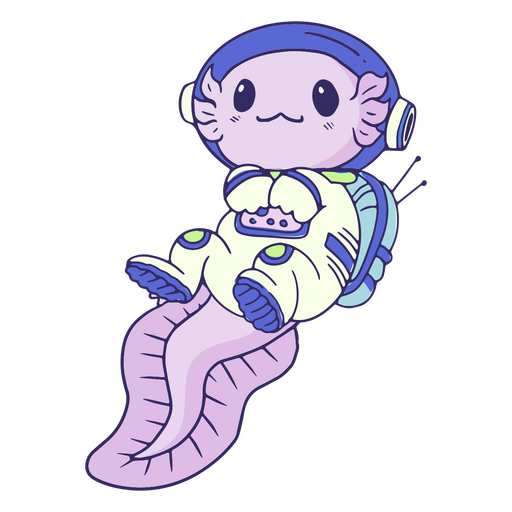
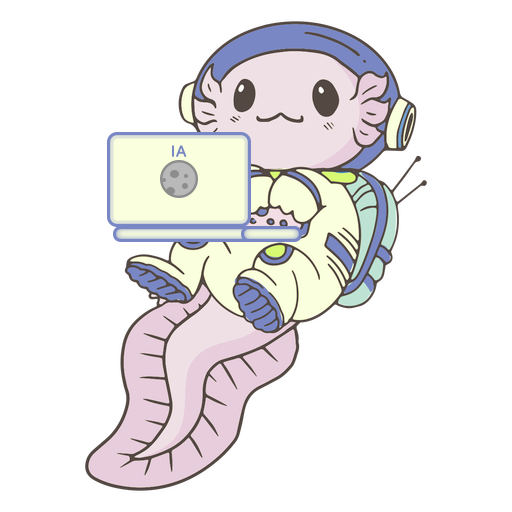
se mejoraron los estilos, se mejoro el direccionamiento de los recursos, se le agrego animation y nuevo diseño a ajolote

diff --git a/src/components/Project.js b/src/components/Project.js
@@ -17,10 +17,10 @@ const Project = ({item}) => {
         {item.name}
       </h3>
       <div className='flex flex-row text-white'>
-        <a className='cursor-pointer capitalize m-4 bg-accent hover:bg-accent-hover transition-all rounded-lg p-5 hover:animate-pulse' href={item.git} >
+        <a className='cursor-pointer capitalize m-4 bg-accent hover:bg-accent-hover transition-all rounded-lg p-5 hover:animate-pulse' href={item.git} target="_blank"  >
             <ImEmbed2 className='text-xl'/>
         </a>
-        <a className='cursor-pointer capitalize m-4 bg-accent hover:bg-accent-hover transition-all rounded-lg p-5 hover:animate-pulse' href={item.link}>
+        <a className='cursor-pointer capitalize m-4 bg-accent hover:bg-accent-hover transition-all rounded-lg p-5 hover:animate-pulse' href={item.link} target="_blank" >
           <ImSphere className='text-xl'/>
         </a>
       </div>

diff --git a/src/components/Resumen.js b/src/components/Resumen.js
@@ -43,7 +43,7 @@ const Resumen = () => {
                                         <div className='mb-2' key={index}>
                                             <h2 className='font-bold pb-1'>{item.name}</h2>
                                             <span className='bg-secondary text-white mb-2'>{item.date}</span>
-                                            <a href={item.link} className='ml-4 pl-2 pr-2 bg-accent hover:bg-accent-hover hover:animate-pulse text-white rounded-lg'>Link</a>
+                                            <a href={item.link} target="_blank" className='ml-4 pl-2 pr-2 bg-accent hover:bg-accent-hover hover:animate-pulse text-white rounded-lg'>Link</a>
                                         </div>
                                     )
                                 })}

diff --git a/src/components/Nav.js b/src/components/Nav.js
@@ -12,10 +12,10 @@ const Nav = () => {
       <ul className='flex space-x-8 capitalize text-[15px]'>
         {navigation.map((item, index) => {
           return (
-            <li className='text-white hover:text-accent cursor-pointer' key={index}>
+            <li className='text-white hover:text-accent cursor-pointer ' key={index}>
               <Link 
                 to={item.href} 
-                activeClass='active' 
+                activeClass='active underline underline-offset-4 decoration-solid' 
                 spy={true} 
                 smooth={true} 
                 duration={500} 

diff --git a/src/components/Footer.js b/src/components/Footer.js
@@ -14,7 +14,7 @@ const Footer = () => {
                 <div className='flex space-x-6 items-center justify-center'>
                     {social.map((item, index) => {
                         return(
-                            <a className='text-accent text-4xl' href={item.href} key={index}>
+                            <a className='text-accent text-4xl' href={item.href} key={index} target="_blank">
                                 {item.icon}
                             </a>
                         );                            

diff --git a/public/index.html b/public/index.html
@@ -31,7 +31,7 @@
       href="https://fonts.googleapis.com/css2?family=Playfair+Display:ital,wght@0,400;0,500;0,600;0,700;0,800;0,900;1,400;1,500;1,600;1,700;1,800;1,900&family=Work+Sans:ital,wght@0,100;0,200;0,300;0,400;0,500;0,600;0,700;0,800;1,100;1,200;1,300;1,400;1,500;1,600;1,700;1,800;1,900&display=swap"
       rel="stylesheet"
     />
-    <title>Portafolio IA</title>
+    <title>Alberto Ivan Inclan</title>
   </head>
   <body>
     <noscript>You need to enable JavaScript to run this app.</noscript>

diff --git a/src/components/Socials.js b/src/components/Socials.js
@@ -8,7 +8,7 @@ const Socials = () => {
     <ul className='flex space-x-6'>
       {social.map((item, index) => {
         return <li className='flex justify-center items-center text-accent' key={index}>
-          <a className='text-xl' href={item.href}>
+          <a className='text-xl' href={item.href} target="_blank" >
             {item.icon}
           </a>
         </li>

diff --git a/src/components/Hero.js b/src/components/Hero.js
@@ -38,7 +38,7 @@ const Hero = () => {
             </div>
             {/* right side */}
             <div className='hidden lg:flex flex-1 justify-center items-center h-4/5'>
-              <img src={ajolote} alt='' className='h-4/5'/>
+              <img src={ajolote} alt='' className='h-4/5 shake'/>
             </div>
           </div>
         </div>

diff --git a/src/index.css b/src/index.css
@@ -41,4 +41,12 @@
   .active {
     @apply text-accent;
   }
+  .shake {
+    animation: shake 10s ease infinite;
+  }
+  @keyframes shake {
+    0%, 100% {transform: translateX(0);}
+    10%, 30%, 50%, 70%, 90% {transform: translateX(-10px);}
+    20%, 40%, 60%, 80% {transform: translateX(10px);}
+  }
 }

diff --git a/src/data.js b/src/data.js
@@ -1,5 +1,5 @@
 // Documentos
-import PDF from '../src/document/cv.pdf';
+import PDF from '../src/document/CV.pdf';
 import Bigdata from '../src/document/BigData.pdf';
 import IntroBBDD from '../src/document/IntroBBDD.pdf';
 
